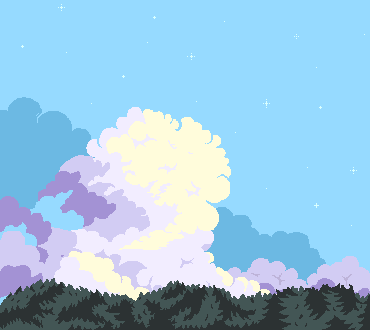
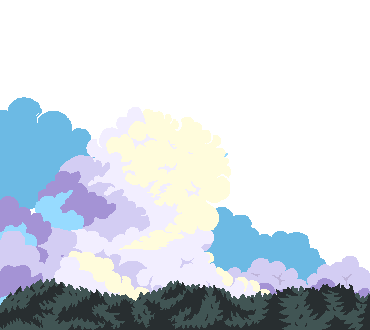
Show Tip design (dev)

diff --git a/src/app/components/quest/next-tip/next-tip.component.scss b/src/app/components/quest/next-tip/next-tip.component.scss
@@ -3,49 +3,81 @@
   src: url('/assets/fonts/VT323-Regular.ttf');
 }
 
-ion-toolbar {
-  --background: #95daff;
-  --color: #FFF;
-  ion-buttons {
-    button {
-      background: transparent;
-      border-radius: 25px;
-      padding: 12px;
-      position: relative;
-      right: 4px;
-      top: 1px;
-      font-size: 18px;
-      line-height: 10px;
-      color: #FFF;
-      transition: .3s;
+ion-header {
+  backdrop-filter: unset !important;
+  ion-toolbar {
+    --background: transparent;
+    --color: #FFF;
+    --backdrop-filter: unset;
 
-      &.contrast {
-        background: var(--ion-color-tertiary);
+    ion-buttons {
+      button {
+        background: transparent;
+        border-radius: 25px;
+        padding: 12px;
+        position: relative;
+        right: 4px;
+        top: 1px;
+        font-size: 18px;
+        line-height: 10px;
+        color: #FFF;
+        transition: .3s;
+
+        &.contrast {
+          background: var(--ion-color-tertiary);
+        }
       }
     }
   }
 }
 
 ion-content {
-  --background: #95daff url(/assets/images/bg-tip.png) no-repeat bottom;
+  --background: url(/assets/images/bg-tip.png) no-repeat bottom center/contain, url(/assets/images/bg-stars-tip.png), linear-gradient(0, #95daff, #528bff);
   font-family: 'VT323', Helvetica, Arial, sans-serif;
 
-  .sprite {width: 300px;
-    height: 300px;
+  h3 {
+    height: 40vh;
+    font-size: 24px;
+    position: absolute;
+    bottom: 15vh;
+    opacity: 0;
+    animation: show-bubble .7s ease-in-out 1.5s forwards;
+
+    @keyframes show-bubble {
+      from {
+        bottom: 15vh;
+        opacity: 0;
+      }
+      to {
+        bottom: 30vh;
+        opacity: 1;
+      }
+    }
+
+    teximate {
+      opacity: 0;
+    }
+  }
+
+  .sprite {
+    width: 100vw;
+    max-width: 450px;
+    height: 100vh;
     display: block;
     position: absolute;
     bottom: 0;
-    right: -100px;
+    right: -100%;
+    animation: show-char 1s ease-in-out .5s forwards;
 
     &.spocky {
       background: url(/assets/images/sprites/spocky.png) no-repeat bottom center/100%;
     }
-  }
-}
 
-h3 {
-  height: 320px;
-  font-size: 24px;
+    @keyframes show-char {
+      from {right: -100%;}
+      to {right: -38%;}
+    }
+  }
 }
 
 ion-footer {
